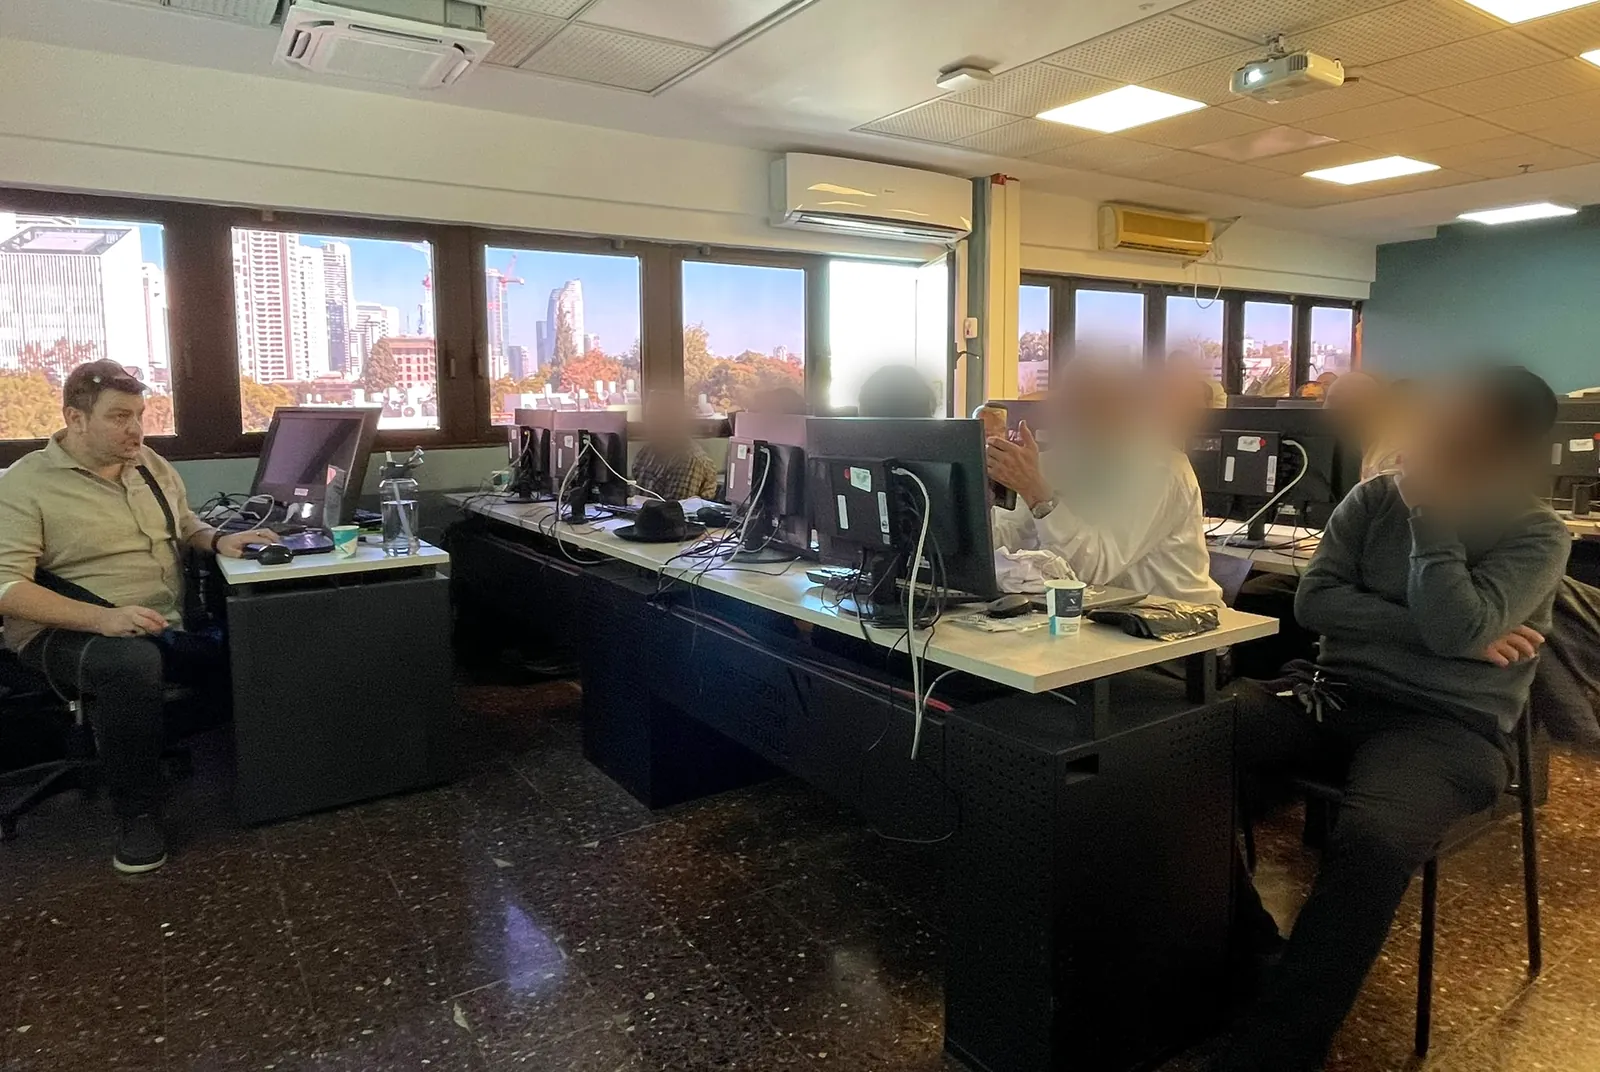
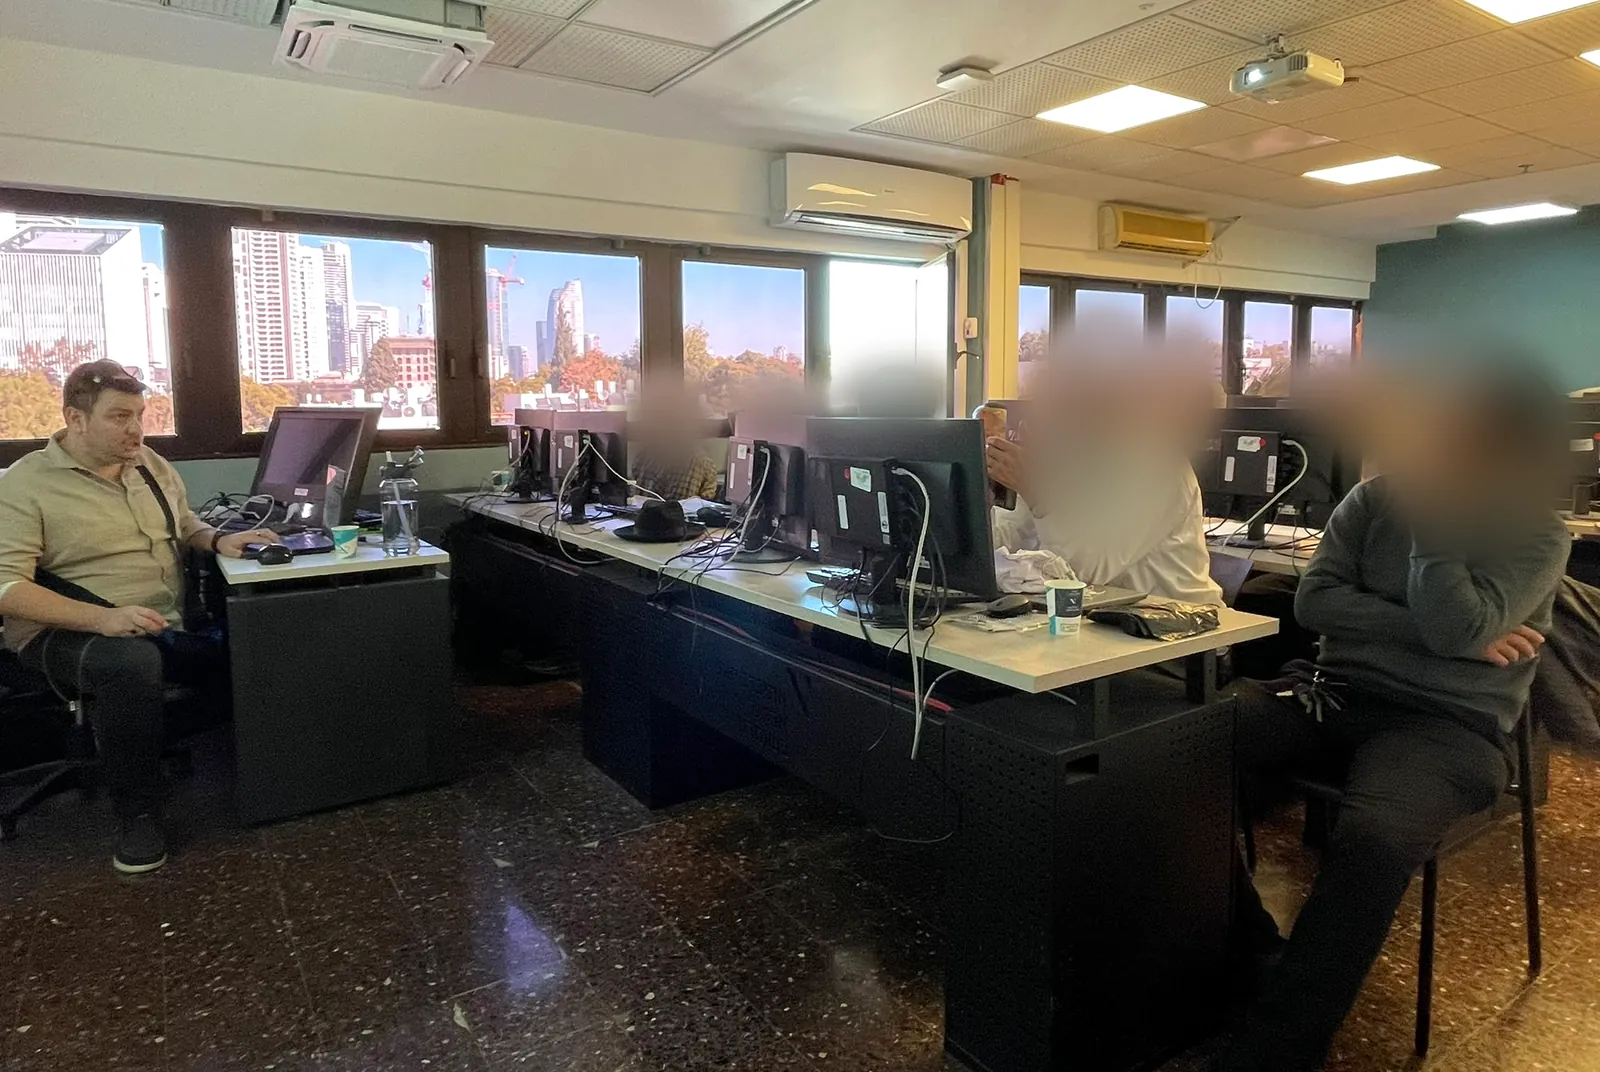
fix(lectures): stronger face blur, photos preview-only until consent, literal alt texts, crop keeps Elad, link target size

diff --git a/src/components/lectures/lectures-page.tsx b/src/components/lectures/lectures-page.tsx
@@ -153,6 +153,9 @@ export function LecturesPage({ locale }: { locale: LecturesLocale }) {
   // Preview-only notes for Elad (the hero video-slot note): shown in previews and local builds,
   // never on the production site.
   const showMediaSlot = process.env.VERCEL_ENV !== 'production';
+  // Real photos from 11.11: participants are private people. Until the organiser confirms
+  // they may be published, the block (with faces blurred) shows in previews only.
+  const showFieldPhotos = process.env.VERCEL_ENV !== 'production';
   const heroVideo = getHeroVideo(locale, v.hero.captionsLabel);
 
   const tabOrder = ['org', 'school', 'community', 'torah'];
@@ -396,7 +399,7 @@ export function LecturesPage({ locale }: { locale: LecturesLocale }) {
           <div
             className={cn(
               'mx-auto grid gap-12 px-5 py-20 sm:px-8 lg:gap-16 lg:py-28',
-              'max-w-6xl lg:grid-cols-[1fr_1.15fr] lg:items-start',
+              showFieldPhotos ? 'max-w-6xl lg:grid-cols-[1fr_1.15fr] lg:items-start' : 'max-w-3xl',
             )}
           >
             <div className="lec-reveal">
@@ -418,47 +421,53 @@ export function LecturesPage({ locale }: { locale: LecturesLocale }) {
                 ))}
               </ol>
             </div>
-            <figure className="lec-reveal">
-              <div className="grid grid-cols-2 gap-3 sm:gap-4">
-                {v.fieldPhotos.items.map((ph, i) => (
-                  <div
-                    key={ph.src}
-                    className={cn(
-                      'group relative overflow-hidden rounded-2xl border border-border bg-card shadow-sm',
-                      i === 0 ? 'col-span-2 aspect-[3/2] rounded-3xl' : 'aspect-[4/3]',
-                    )}
-                  >
-                    <Image
-                      src={ph.src}
-                      alt={ph.alt}
-                      fill
-                      sizes={i === 0 ? '(min-width: 1024px) 600px, 100vw' : '(min-width: 1024px) 300px, 50vw'}
-                      className="object-cover motion-safe:transition-transform motion-safe:duration-500 motion-safe:group-hover:scale-[1.03]"
-                    />
-                  </div>
-                ))}
-              </div>
-              <figcaption className="mt-4 flex gap-2.5 text-sm leading-[1.7] text-muted-foreground">
-                <Camera className="mt-1 size-4 shrink-0 text-cta" aria-hidden="true" />
-                <span className="space-y-0.5">
-                  <span className="block font-semibold text-foreground">{v.fieldPhotos.caption}</span>
-                  <span className="block">
-                    {v.fieldPhotos.creditBefore}{' '}
-                    <a
-                      href={v.fieldPhotos.creditUrl}
-                      target="_blank"
-                      rel="noopener"
-                      dir="ltr"
-                      className="inline-block min-h-6 font-semibold text-cta underline decoration-from-font underline-offset-4 hover:opacity-80"
+            {showFieldPhotos && (
+              <figure className="lec-reveal">
+                <div className="grid grid-cols-2 gap-3 sm:gap-4">
+                  {v.fieldPhotos.items.map((ph, i) => (
+                    <div
+                      key={ph.src}
+                      className={cn(
+                        'group relative overflow-hidden rounded-2xl border border-border bg-card shadow-sm',
+                        i === 0 ? 'col-span-2 aspect-[3/2] rounded-3xl' : 'aspect-[4/3]',
+                      )}
                     >
-                      {v.fieldPhotos.creditName}
-                    </a>
-                    .
+                      <Image
+                        src={ph.src}
+                        alt={ph.alt}
+                        fill
+                        sizes={i === 0 ? '(min-width: 1024px) 600px, calc(100vw - 40px)' : '(min-width: 1024px) 300px, calc(50vw - 26px)'}
+                        className={cn(
+                          'object-cover motion-safe:transition-transform motion-safe:duration-500 motion-safe:group-hover:scale-[1.03]',
+                          ph.focus === 'start' && 'object-left',
+                        )}
+                      />
+                    </div>
+                  ))}
+                </div>
+                <figcaption className="mt-4 flex gap-2.5 text-sm leading-[1.7] text-muted-foreground">
+                  <Camera className="mt-1 size-4 shrink-0 text-cta" aria-hidden="true" />
+                  <span className="space-y-0.5">
+                    <span className="block font-semibold text-foreground">{v.fieldPhotos.caption}</span>
+                    <span className="block">
+                      {v.fieldPhotos.creditBefore}{' '}
+                      <a
+                        href={v.fieldPhotos.creditUrl}
+                        target="_blank"
+                        rel="noopener"
+                        dir="ltr"
+                        className="-my-2.5 inline-block py-2.5 font-semibold text-cta underline decoration-from-font underline-offset-4 hover:opacity-80"
+                      >
+                        {v.fieldPhotos.creditName}
+                        <span className="sr-only"> {v.fieldPhotos.newTab}</span>
+                      </a>
+                      .
+                    </span>
+                    <span className="block text-xs">{v.fieldPhotos.privacyNote}</span>
                   </span>
-                  <span className="block text-xs">{v.fieldPhotos.privacyNote}</span>
-                </span>
-              </figcaption>
-            </figure>
+                </figcaption>
+              </figure>
+            )}
           </div>
         </section>
 

diff --git a/src/components/lectures/content-v2.ts b/src/components/lectures/content-v2.ts
@@ -48,7 +48,8 @@ export interface LecturesCopyV2 {
   /** Real photos from the 11.11.2026 lecture. Participants' faces are blurred until the
    *  organiser (Ortamai) confirms publishing them; Elad is never blurred. */
   fieldPhotos: {
-    items: { src: string; alt: string }[];
+    items: { src: string; alt: string; focus?: 'start' }[];
+    newTab: string;
     caption: string;
     creditBefore: string;
     creditName: string;
@@ -168,17 +169,19 @@ const he: LecturesCopyV2 = {
       },
       {
         src: '/images/lectures-field-02.webp',
-        alt: 'אלעד יושב בעמדת המרצה בצד הכיתה ומקשיב לשאלה. משתתף מבוגר בשורה של המחשבים מסביר בתנועת יד, ובחלונות נוף העיר.',
+        focus: 'start',
+        alt: 'אלעד יושב בעמדת המרצה בצד שמאל של הכיתה ופונה אל המשתתפים. בשורת המחשבים אחד המשתתפים מרים יד פתוחה, ובחלונות נוף העיר.',
       },
       {
         src: '/images/lectures-field-04.webp',
-        alt: 'שורות של משתתפים מקהל תורני בכיתת המחשבים, מקשיבים ומסתכלים קדימה אל המסך.',
+        alt: 'שורות של משתתפים מקהל תורני יושבים מול המחשבים בכיתה, וחלונות עם עצים ונוף העיר מאחוריהם.',
       },
     ],
     caption: 'צילומים מההרצאה ב-11 בנובמבר 2026, בכיתת מחשבים עם נוף לעיר.',
     creditBefore: 'ההרצאה התקיימה דרך',
     creditName: 'Ortamai',
     creditUrl: 'https://ortamai.com',
+    newTab: '(נפתח בלשונית חדשה)',
     privacyNote: 'פני המשתתפים טושטשו כדי לשמור על פרטיותם.',
   },
   field: { label: 'מההרצאה האחרונה', date: '11 בנובמבר 2026' },
@@ -293,17 +296,19 @@ const en: LecturesCopyV2 = {
       },
       {
         src: '/images/lectures-field-02.webp',
-        alt: 'Elad sits at the lecturer desk at the side of the classroom, listening to a question. An older participant in the row of computers explains with a hand gesture; the windows show the city.',
+        focus: 'start',
+        alt: 'Elad sits at the lecturer desk on the left side of the classroom, facing the participants. In the row of computers one participant raises an open hand; the windows show the city.',
       },
       {
         src: '/images/lectures-field-04.webp',
-        alt: 'Rows of participants from a Torah-observant audience in the computer classroom, listening and looking ahead at the screen.',
+        alt: 'Rows of participants from a Torah-observant audience sitting at the computers, with windows, trees and the city view behind them.',
       },
     ],
     caption: 'Photos from the lecture on 11 November 2026, in a computer classroom overlooking the city.',
     creditBefore: 'The lecture was held through',
     creditName: 'Ortamai',
     creditUrl: 'https://ortamai.com',
+    newTab: '(opens in a new tab)',
     privacyNote: "Participants' faces are blurred to protect their privacy.",
   },
   field: { label: 'From my latest lecture', date: '11 November 2026' },

diff --git a/src/components/lectures/content.ts b/src/components/lectures/content.ts
@@ -190,7 +190,7 @@ const he: LecturesCopy = {
   },
   recent: {
     title: 'מהשטח',
-    text: 'בנובמבר 2026 העברתי, דרך Ortamai, בוקר של שלוש שעות וחצי על בינה מלאכותית לקבוצת מבוגרים מקהל תורני, בכיתת מחשבים. בנינו את המפגש כך שכל אחד יצא עם משהו שעשה בעצמו.',
+    text: 'בנובמבר 2026 העברתי דרך Ortamai בוקר של שלוש שעות וחצי על בינה מלאכותית, בכיתת מחשבים, לקבוצת מבוגרים מקהל תורני. בנינו את המפגש כך שכל אחד יצא עם משהו שעשה בעצמו.',
     bullets: [
       'החלק הראשון בלי מחשבים: היסטוריה קצרה, איך זה עובד, ואיפה זה טועה',
       'אחר כך פתחנו כלי ביחד ותרגלנו, צעד אחר צעד',
@@ -225,7 +225,7 @@ const he: LecturesCopy = {
       },
       {
         gain: 'כבוד לקהל, לכל קהל',
-        because: 'בנובמבר 2026 העברתי, דרך Ortamai, בוקר של שלוש שעות וחצי על בינה מלאכותית לקבוצת מבוגרים מקהל תורני, בכיתת מחשבים. התאמנו מראש את הדוגמאות, את התמונות ואת קטעי השמע. ככה אני עובד עם כל קבוצה.',
+        because: 'בנובמבר 2026 העברתי דרך Ortamai בוקר של שלוש שעות וחצי על בינה מלאכותית, בכיתת מחשבים, לקבוצת מבוגרים מקהל תורני. התאמנו מראש את הדוגמאות, את התמונות ואת קטעי השמע. ככה אני עובד עם כל קבוצה.',
       },
     ],
     link: 'עוד עליי',
